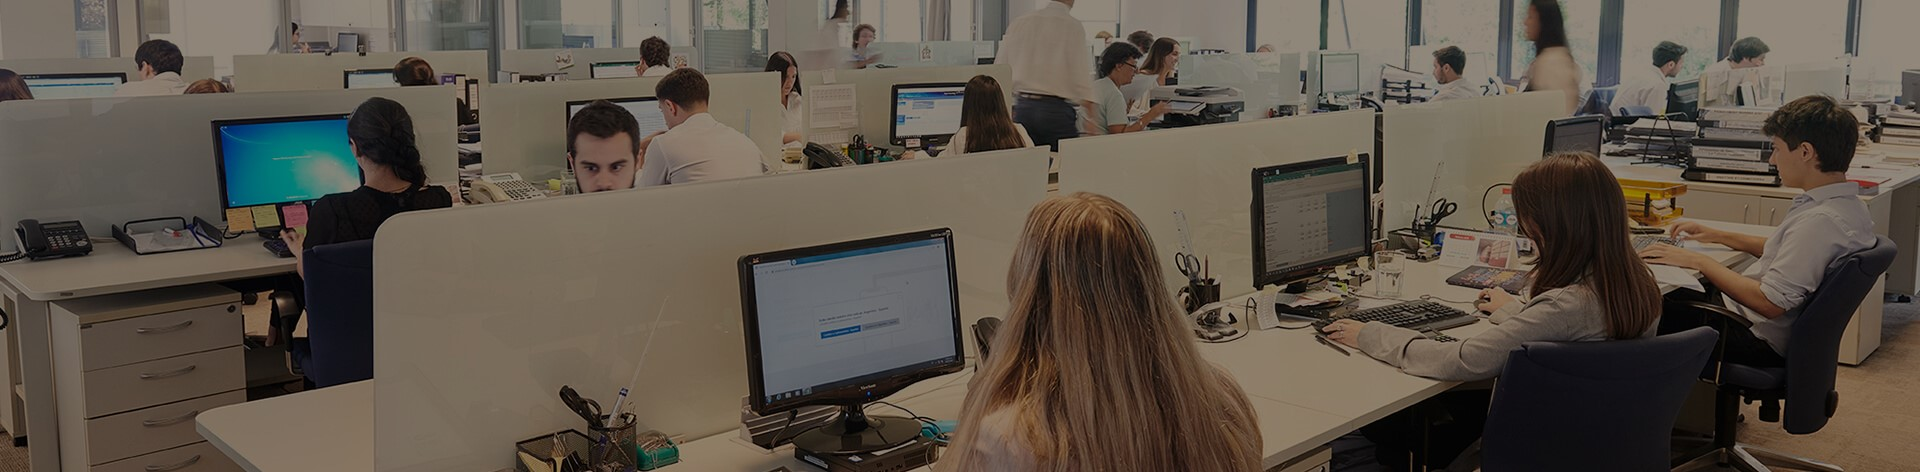
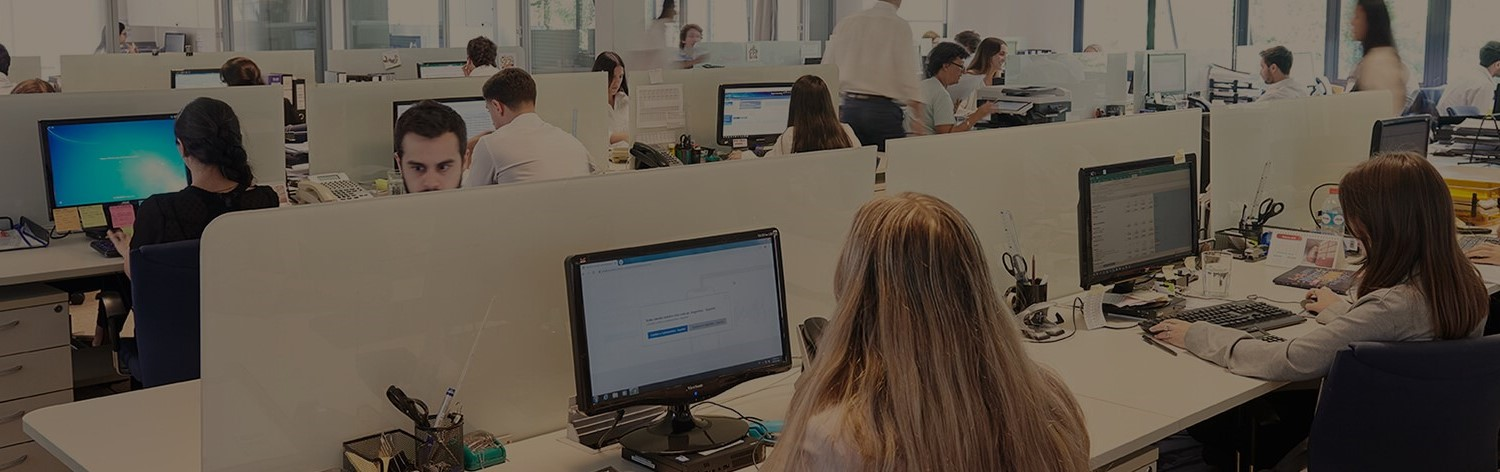
arreglo de carrusel y resize del footer

diff --git a/quienes-somos.html b/quienes-somos.html
@@ -110,7 +110,7 @@
                             aria-label="Slide 3"></button>
                     </div>
                     <div class="carousel-inner carrusel--height">
-                        <div class="carousel-item active">
+                        <div class="carousel-item active carrusel--overflow">
                             <img src="./img/recomendacion-1.jpg" class="d-block carrusel--height"
                                 alt="Foto de una de las oficinas con computadoras">
                             <div class="carousel-caption">
@@ -118,7 +118,7 @@
                                 <p>- LATIN LAWYER</p>
                             </div>
                         </div>
-                        <div class="carousel-item">
+                        <div class="carousel-item carrusel--overflow">
                             <img src="./img/recomendacion-2.jpg" class="d-block carrusel--height"
                                 alt="Foto desde dentro de la sucursal en punta del este">
                             <div class="carousel-caption">
@@ -127,8 +127,8 @@
                                 <p>- LEGAL 500</p>
                             </div>
                         </div>
-                        <div class="carousel-item">
-                            <img src="./img/recomendacion-3.jpg" class="d-block carrusel--height carrusel--heightB"
+                        <div class="carousel-item carrusel--overflow">
+                            <img src="./img/recomendacion-3.jpg" class="d-block carrusel--height"
                                 alt="Foto de una abogada trabajando en una computadora">
                             <div class="carousel-caption">
                                 <h3 class="mb-md-5">"La firma brinda asesoramiento con conocimiento específico de los

diff --git a/css/main.css b/css/main.css
@@ -218,8 +218,8 @@ p {
   height: 35rem;
 }
 
-.carrusel--heightB {
-  width: 820px;
+.carrusel--overflow {
+  overflow: hidden;
 }
 
 .work-with-us {
@@ -370,22 +370,24 @@ p {
 }
 
 .footer__logo {
-  width: 200px;
-  margin-left: 2rem;
+  width: 160px;
+  margin-right: 3rem;
   margin-top: 2rem;
 }
 .footer__logo img {
-  position: relative;
-  left: -3rem;
-  width: 22rem;
+  width: 220px;
 }
 
 .footer__social {
+  width: 20%;
   position: relative;
   left: -1.6rem;
-  margin-left: 3rem;
+  margin-left: 5rem;
   margin-top: 2rem;
   line-height: 2rem;
+}
+.footer__social h3 {
+  font-size: 18px;
 }
 .footer__social img {
   width: 20px;
@@ -399,8 +401,8 @@ p {
   justify-content: auto;
   align-items: auto;
   flex-wrap: wrap;
-  margin: 3rem 0 3rem 0;
-  width: 340px;
+  margin: 3rem;
+  width: 300px;
 }
 .footer__addresses h3 {
   display: inline;
@@ -442,7 +444,7 @@ p {
 }
 
 #maldonado {
-  margin-left: 5rem;
+  margin-left: 9rem;
 }
 
 #la-paloma {
@@ -591,9 +593,6 @@ p {
   .carrusel--height {
     height: auto;
   }
-  .carrusel--heightB {
-    width: auto;
-  }
   .recon {
     display: flex;
     flex-direction: row;
@@ -641,6 +640,7 @@ p {
     align-items: auto;
     flex-wrap: wrap;
     width: 18rem;
+    margin: 0 1rem;
   }
   .addresses__info {
     margin: 0;
@@ -649,7 +649,8 @@ p {
     margin: 0.5rem 0;
   }
   #maldonado {
-    margin-right: 4rem;
+    margin-right: 2rem;
+    margin-left: 3rem;
   }
   #la-paloma {
     margin: 0;

diff --git a/scss/_content.scss b/scss/_content.scss
@@ -239,8 +239,8 @@ p {
     height: 35rem;
 }
 
-.carrusel--heightB {
-    width: 820px;
+.carrusel--overflow {
+    overflow: hidden;
 }
 
 // Trabaja con nosotros
@@ -398,7 +398,6 @@ p {
 }
 
 // Pie de página
-
 .footer {
     @include flex (auto, center, auto, wrap);
     background-color: map-get($map: $paleta, $key: 'black');
@@ -407,23 +406,26 @@ p {
 }
 
 .footer__logo {
-    width: 200px;
-    margin-left: 2rem;
+    width: 160px;
+    margin-right: 3rem;
     margin-top: 2rem;
 
     img {
-        position: relative;
-        left: -3rem;
-        width: 22rem;
+        width: 220px;
     }
 }
 
 .footer__social {
+    width: 20%;
     position: relative;
     left: -1.6rem;
-    margin-left: 3rem;
+    margin-left: 5rem;
     margin-top: 2rem;
     line-height: 2rem;
+
+    h3 {
+        font-size: 18px;
+    }
 
     img {
         width: 20px;
@@ -434,8 +436,8 @@ p {
 
 .footer__addresses {
     @include flex (column, auto, auto, wrap);
-    margin: 3rem 0 3rem 0;
-    width: 340px;
+    margin: 3rem;
+    width: 300px;
 
     h3 {
         display: inline;
@@ -472,7 +474,7 @@ p {
 }
 
 #maldonado {
-    margin-left: 5rem;
+    margin-left: 9rem;
 }
 
 #la-paloma {

diff --git a/scss/_breakpoints.scss b/scss/_breakpoints.scss
@@ -134,10 +134,6 @@
         height: auto;
     }
 
-    .carrusel--heightB {
-        width: auto;
-    }
-
     // Reconocimientos internacionales
 
     .recon {
@@ -193,6 +189,7 @@
     .footer__list {
         @include flex (row, center, auto, wrap);
         width: 18rem;
+        margin: 0 1rem;
     }
 
     .addresses__info {
@@ -204,7 +201,8 @@
     }
 
     #maldonado {
-        margin-right: 4rem;
+        margin-right: 2rem;
+        margin-left: 3rem;
     }
 
     #la-paloma {
@@ -244,6 +242,7 @@
     .who-we-are {
         margin-top: 3rem;
         margin-bottom: 6rem;
+
         p {
             margin: 0;
         }
@@ -273,7 +272,7 @@
             text-align: left;
         }
     }
-    
+
     // Contacto
 
     .branch {
